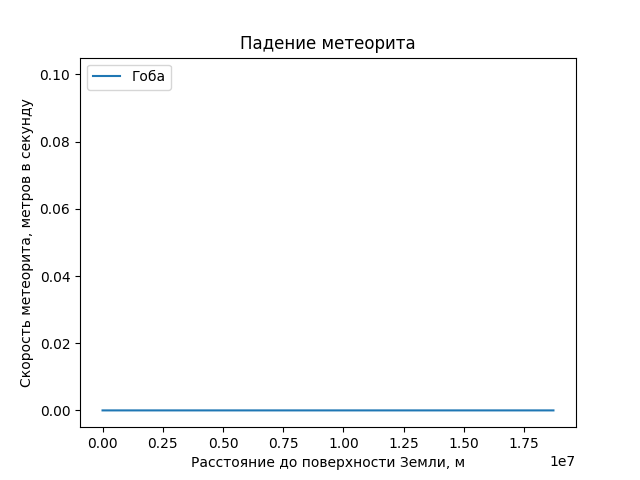
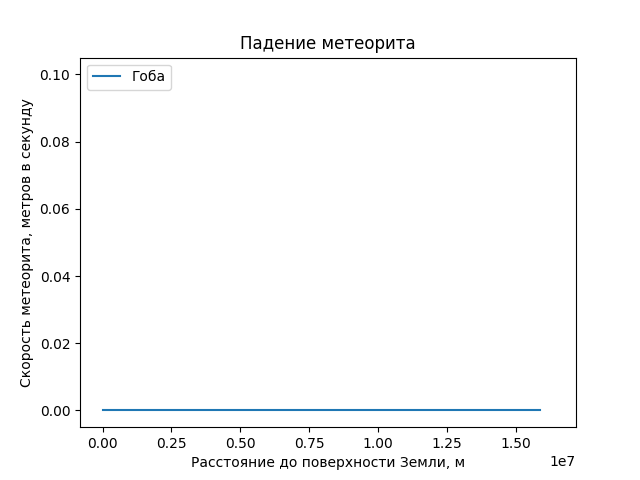
Так и не понял, почему не работает задание с метеором

Changed region(s): [[0.1562, 0.8438, 0.875, 0.875], [0.2188, 0.9062, 0.75, 0.9375], [0.7812, 0.9062, 0.8438, 0.9375]]

diff --git a/lab_9/lab_9_add_task_1.py b/lab_9/lab_9_add_task_1.py
@@ -2,14 +2,14 @@ import numpy as np
 from scipy.integrate import odeint
 import matplotlib.pyplot as plt
 
-h = 12345678
-R = 6378100
+h = 123456789
+R = 6371000
 M = 5.9742 * 10 ** 24
 r_0 = R + h
 v_0 = 0.1
 G = 6.674 * 10**(-11)
 
-r = np.arange(r_0, 0, -100)
+r = np.linspace(r_0, 0, 100)
 
 def meteorite_function(v, r):
     dvdr = G * M / (v * (h + R - r) ** 2)
